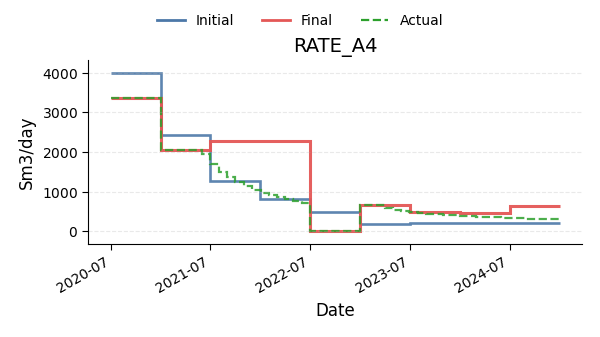
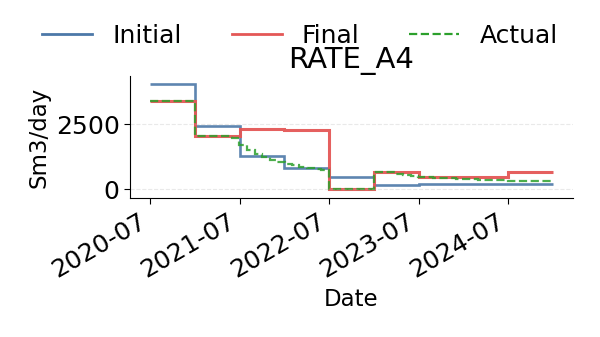
Some Ecmor updates

diff --git a/multi_objective_optimization/plot_ecmor26.py b/multi_objective_optimization/plot_ecmor26.py
@@ -8,7 +8,7 @@ from typing import cast
 import yaml
 import pandas as pd
 
-mode = 'publication'  # 'presentation' or 'publication'
+mode = 'presentation'  # 'presentation' or 'publication'
 if mode == 'presentation':
     plt.rcParams.update({
         'font.size': 18,              # base size (ticks)
@@ -18,7 +18,9 @@ if mode == 'presentation':
         'ytick.labelsize': 18,        # y tick labels
         'legend.fontsize': 18,        # legend
     })
-    figsize = 18.0
+    figsize = 12.0
+    _annot_fontsize = 14
+    _obj_func_left = 0.14
 elif mode == 'publication':
     plt.rcParams.update({
         'font.size': 12,  # base text
@@ -29,6 +31,8 @@ elif mode == 'publication':
         'legend.fontsize': 10,
     })
     figsize = 12.0
+    _annot_fontsize = 10
+    _obj_func_left = 0.07
 ratio = 16 / 9
 
 def _load_state_names(path_to_config, num_state_vars):
@@ -354,7 +358,7 @@ def plot_obj_func(obj_scaling=None):
         #    subtitle += f' Objective scaling = {obj_scaling:.2g}.'
         #fig.text(0.5, 0.85, subtitle, ha='center', va='top', fontsize=18, color='0.35')
 
-        fig.subplots_adjust(top=0.88, bottom=0.09, left=0.07, right=0.985, hspace=0.12)
+        fig.subplots_adjust(top=0.88, bottom=0.09, left=_obj_func_left, right=0.985, hspace=0.12)
         fig.savefig(str(path_to_figures) + '/obj_func_epf', bbox_inches='tight', pad_inches=0.04)
     else:
         fig, ax = plt.subplots(1, 1, figsize=(11, 6.5))
@@ -395,6 +399,11 @@ def plot_state(num_var, order='F', state_actual=None):
     results = [name for name in files if "optimize_result" in name]
     if not results:
         return
+
+    # Scale title/axis-label fonts down for half-size figures in this function.
+    _state_text_scale = 0.75
+    _state_title_size = float(plt.rcParams['axes.titlesize']) * _state_text_scale
+    _state_label_size = float(plt.rcParams['axes.labelsize']) * _state_text_scale
 
     ind = [i for i, ltr in enumerate(results[0]) if ltr == '_']
     if len(ind) > 2:
@@ -511,7 +520,7 @@ def plot_state(num_var, order='F', state_actual=None):
                 ax[w].plot(x_vals[:-1], var_fin, 'o', color='#E45756', markersize=6)
 
             ax[w].tick_params(direction='out', length=4, width=0.8)
-            ax[w].set_xlabel(x_label if w >= num - c else '')
+            ax[w].set_xlabel(x_label if w >= num - c else '', fontsize=_state_label_size)
 
             if len(var_ini) > 1:
                 if time_index is not None:
@@ -524,8 +533,8 @@ def plot_state(num_var, order='F', state_actual=None):
             name = state_names[global_idx]
             title = str(name) if name is not None else f'Variable {w + 1}'
             title_text, unit_text = _split_label_and_unit(f'{title} (Sm3/day)')
-            ax[w].set_title(title_text, pad=6)
-            ax[w].set_ylabel(unit_text)
+            ax[w].set_title(title_text, pad=6, fontsize=_state_title_size)
+            ax[w].set_ylabel(unit_text, fontsize=_state_label_size)
             ax[w].grid(True, axis='y', linestyle='--', alpha=0.28)
             ax[w].spines['top'].set_visible(False)
             ax[w].spines['right'].set_visible(False)
@@ -618,14 +627,14 @@ def plot_state(num_var, order='F', state_actual=None):
                 bbox={'facecolor': 'black', 'edgecolor': 'none', 'alpha': 0.40, 'pad': 1.6} if inside else None,
             )
         #ax.tick_params(labelsize=12)
-        ax.set_xlabel('State')
+        ax.set_xlabel('State', fontsize=_state_label_size)
         ax.set_xticks(x_pos)
         ax.set_xticklabels(['Initial', 'Final'])
         global_idx = tot_var + i
         name = state_names[global_idx] if global_idx < len(state_names) else None
         title_text, unit_text = _split_label_and_unit(yl)
-        ax.set_ylabel(unit_text)
-        ax.set_title(title_text)
+        ax.set_ylabel(unit_text, fontsize=_state_label_size)
+        ax.set_title(title_text, fontsize=_state_title_size)
         if y_min is not None and y_max is not None:
             ax.set_ylim(y_min, y_max)
         else:
@@ -898,7 +907,7 @@ def plot_pareto_curve(selected_weights=None):
     with open(config_path, 'r') as f:
         cfg = yaml.safe_load(f) or {}
 
-    cfg_dir = os.path.basename(os.path.normpath(path_to_config))
+    cfg_dir = os.path.basename(os.path.normpath(path_to_files))
     match = re.search(r'run\d+', cfg_dir)
     if match is None:
         return
@@ -962,7 +971,8 @@ def plot_pareto_curve(selected_weights=None):
     capex_vals = np.array([row[1] for row in candidates], dtype=float) / 1e6
     npv_vals = np.array([row[2] for row in candidates], dtype=float) / 1e6
 
-    fig, ax = plt.subplots(1, 1, figsize=(figsize * 0.75, figsize * 0.75 / ratio))
+    # In the ECMOR paper figsize * 0.75 was used.
+    fig, ax = plt.subplots(1, 1, figsize=(figsize, figsize / ratio))
     ax.scatter(capex_vals, npv_vals, s=65, color='#1f77b4', zorder=4)
 
     curve_x, curve_y = _least_squares_curve_eval(capex_vals, npv_vals, num=400)
@@ -972,7 +982,7 @@ def plot_pareto_curve(selected_weights=None):
     x_span = max(np.ptp(capex_vals), 1.0)
     y_span = max(np.ptp(npv_vals), 1.0)
     for x, y, w in zip(capex_vals, npv_vals, weights):
-        ax.text(x + 0.025 * x_span, y + 0.015 * y_span, f'w={w:g}', fontsize=10, color='0.25')
+        ax.text(x + 0.025 * x_span, y + 0.015 * y_span, f'w={w:g}', fontsize=_annot_fontsize, color='0.25')
 
     ax.set_title('Pareto curve across weights')
     ax.set_xlabel('CAPEX (Million USD)')
@@ -992,6 +1002,7 @@ def plot_pareto_curve(selected_weights=None):
     os.makedirs(results_root, exist_ok=True)
     fig.tight_layout()
     fig.savefig(os.path.join(results_root, f'pareto_curve_{case_name}.png'), bbox_inches='tight', pad_inches=0.04)
+
 
 def plot_wind_power_profiles():
     wind_power_ens = np.load('./init/wp_ens.npy')
@@ -1040,13 +1051,14 @@ def plot_wind_power_profiles():
     fig.savefig(os.path.join(results_root, 'wind_power_profiles'), bbox_inches='tight', pad_inches=0.04)
 
 
+
 # Set paths
 path_to_files = 'results_ecmor26/run2w0.5/'  # Load results from here
 path_to_config = 'wind-hydrogen_ecmor26/'  # Extract config name from path
 path_to_figures = path_to_files  # Save here
 if not os.path.exists(path_to_figures):
     os.mkdir(path_to_figures)
-results_root = './results'
+results_root = './results_ecmor26/'  # Root folder for all results (for Pareto curve)
 
 # Load reference values (for scaling) and actual state
 file = np.load('./init/ref_values.npz', allow_pickle=True)
@@ -1058,9 +1070,9 @@ final_data = final_data['final_data'][()]
 
 # Plot stuff
 #plot_obj_func(2845473526.0)
-#plot_state([1,1,1,1,1,1,1], order='C', state_actual=final_data)
+plot_state([1,1,1,1,1,1,1], order='C', state_actual=final_data)
 #plot_pareto_point()
-plot_pareto_curve(selected_weights=[0.5, 0.9, 0.99])
+#plot_pareto_curve(selected_weights=[0.5, 0.9, 0.99])
 #plot_wind_power_profiles()
 
 plt.show()

diff --git a/multi_objective_optimization/tools/pareto.py b/multi_objective_optimization/tools/pareto.py
@@ -73,8 +73,9 @@ def optimize_pareto_point(weight, **kwargs):
     bounds = ensemble.get_bounds()
 
     # Read optimal control strategy from a previous optimization (for analysis purposes)
-    #f = np.load('../results/run2w0.5/optimize_result_3_4.npz', allow_pickle=True)
+    #f = np.load('../results_ecmor26/run2w0.5/optimize_result_3_4.npz', allow_pickle=True)
     #x0 = f['x']
+    #x0[63] = 0.5 # reduced number of wind turbines
 
     epf = None
     main_method = kwopt.get('main_method', 'LineSearch')
